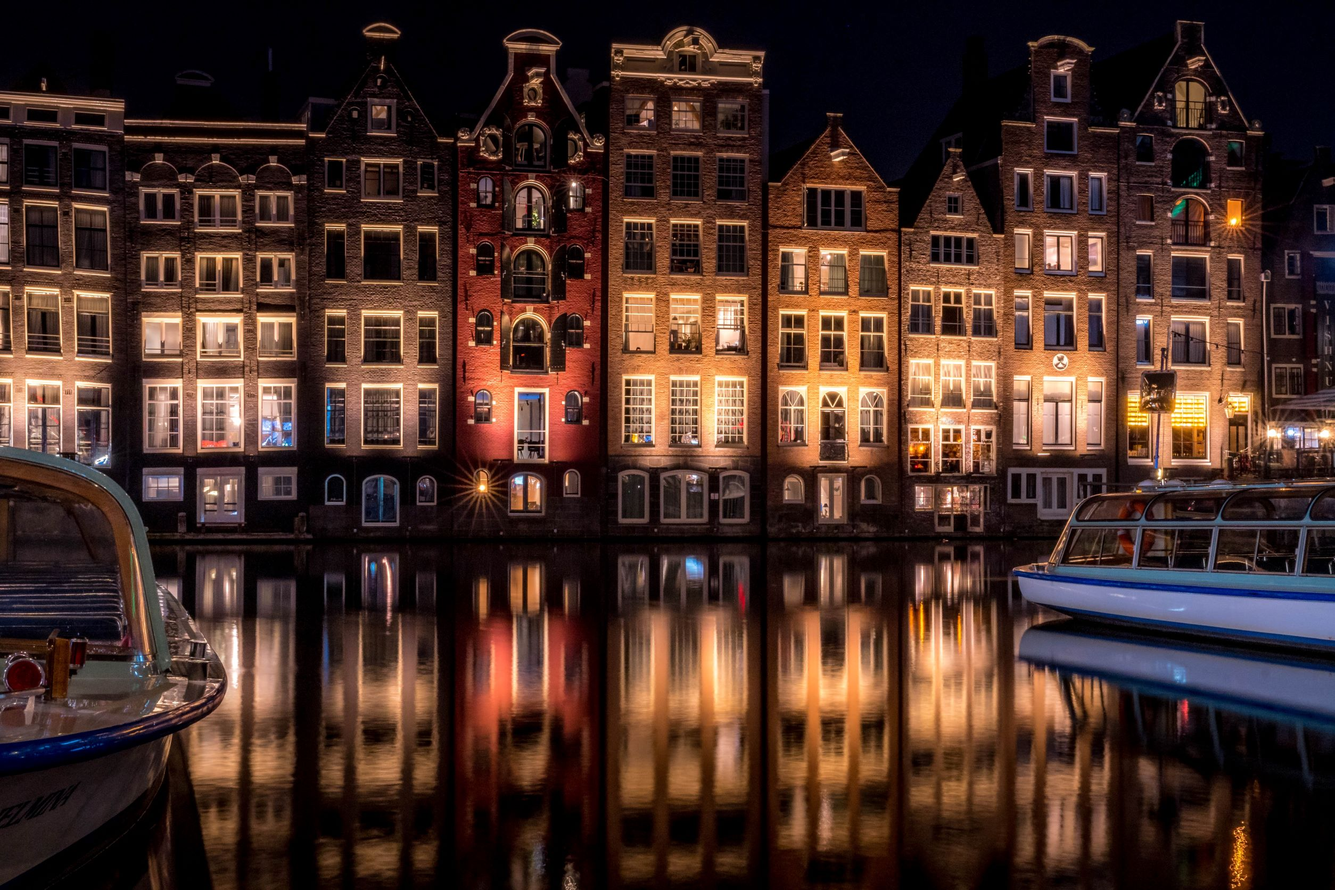
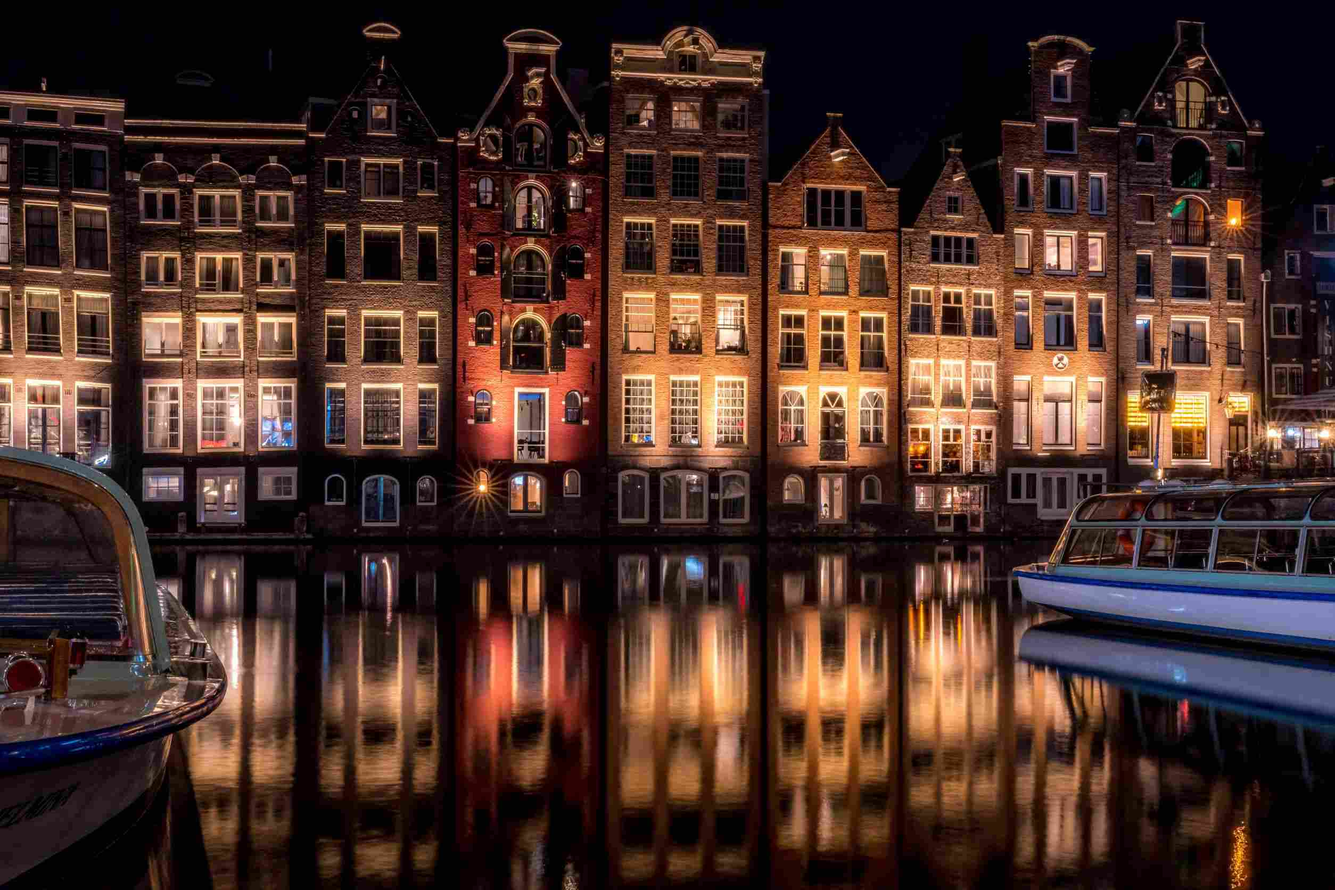
squooshed images

diff --git a/src/pages/home/Home.js b/src/pages/home/Home.js
@@ -40,15 +40,13 @@ export default function Home() {
   const { documents } = useCollection("users", ["uid", "==", user.uid]);
   const { documents: weatherKey } = useCollection("api");
 
-
   // update zipcode; check for documents and make sure that documents doesn't return as "undefined"
   useMemo(() => {
     const newZip = documents && documents[0].zip ? documents[0].zip : null;
     setZipcode(newZip);
   }, [documents, user]);
 
-  let api = weatherKey && weatherKey[0].key ? weatherKey[0].key : null;
-
+     let api = weatherKey && weatherKey[0].key ? weatherKey[0].key : null; 
   //handle next button click on background image
   const handleRight = (e) => {
     e.preventDefault();
@@ -73,7 +71,7 @@ export default function Home() {
   useEffect(() => {
     const fetchCoordinates = async () => {
       //api endpoint to use zip to get lat and lon
-      const coordinateUrl = `https://api.openweathermap.org/geo/1.0/zip?zip=${zipcode},US&appid=${api}`;
+      const coordinateUrl = `https://api.openweathermap.org/geo/1.0/zip?zip=80919,US&appid=0a430b4c9cea94f2ec8d3907dec15777`;
 
       //fetch lat and lon for zipcode conversion
       try {
@@ -90,7 +88,6 @@ export default function Home() {
       //use latitude and longitude to get weather
       try {
         const weatherUrl = `https://api.openweathermap.org/data/2.5/weather?lat=${latitude}&lon=${longitude}&appid=0a430b4c9cea94f2ec8d3907dec15777&units=imperial`;
-        console.log(weatherUrl);
         const response = await fetch(weatherUrl);
         if (response.status === 200) {
           const jsonResponse = await response.json();
